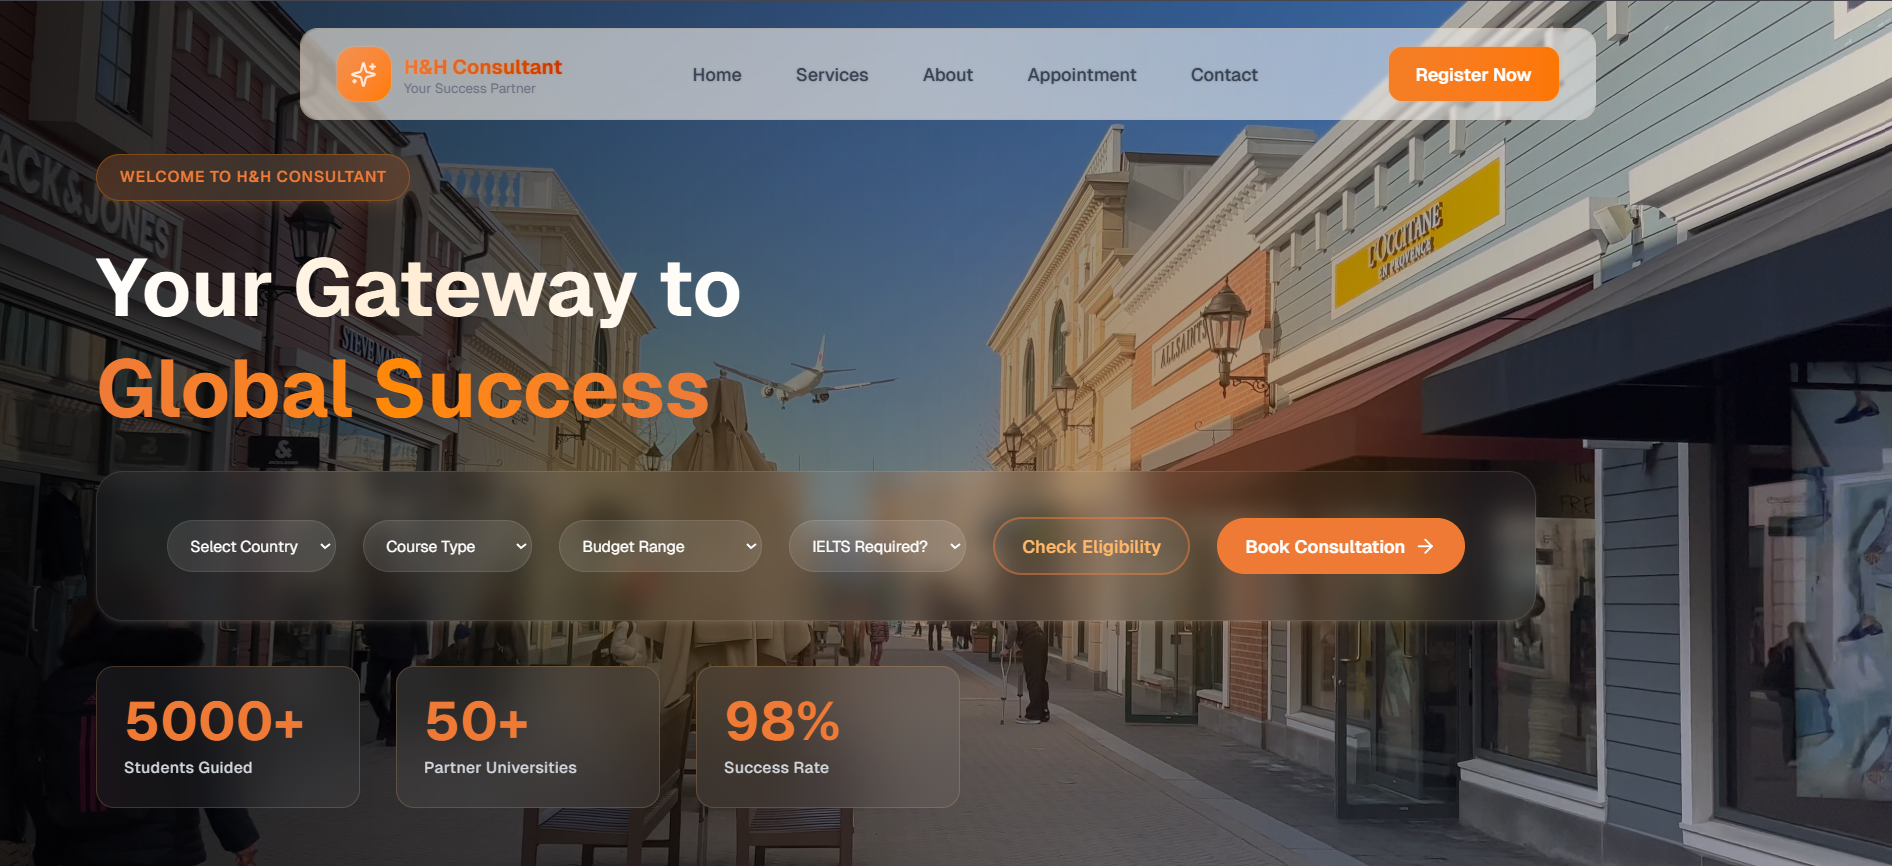
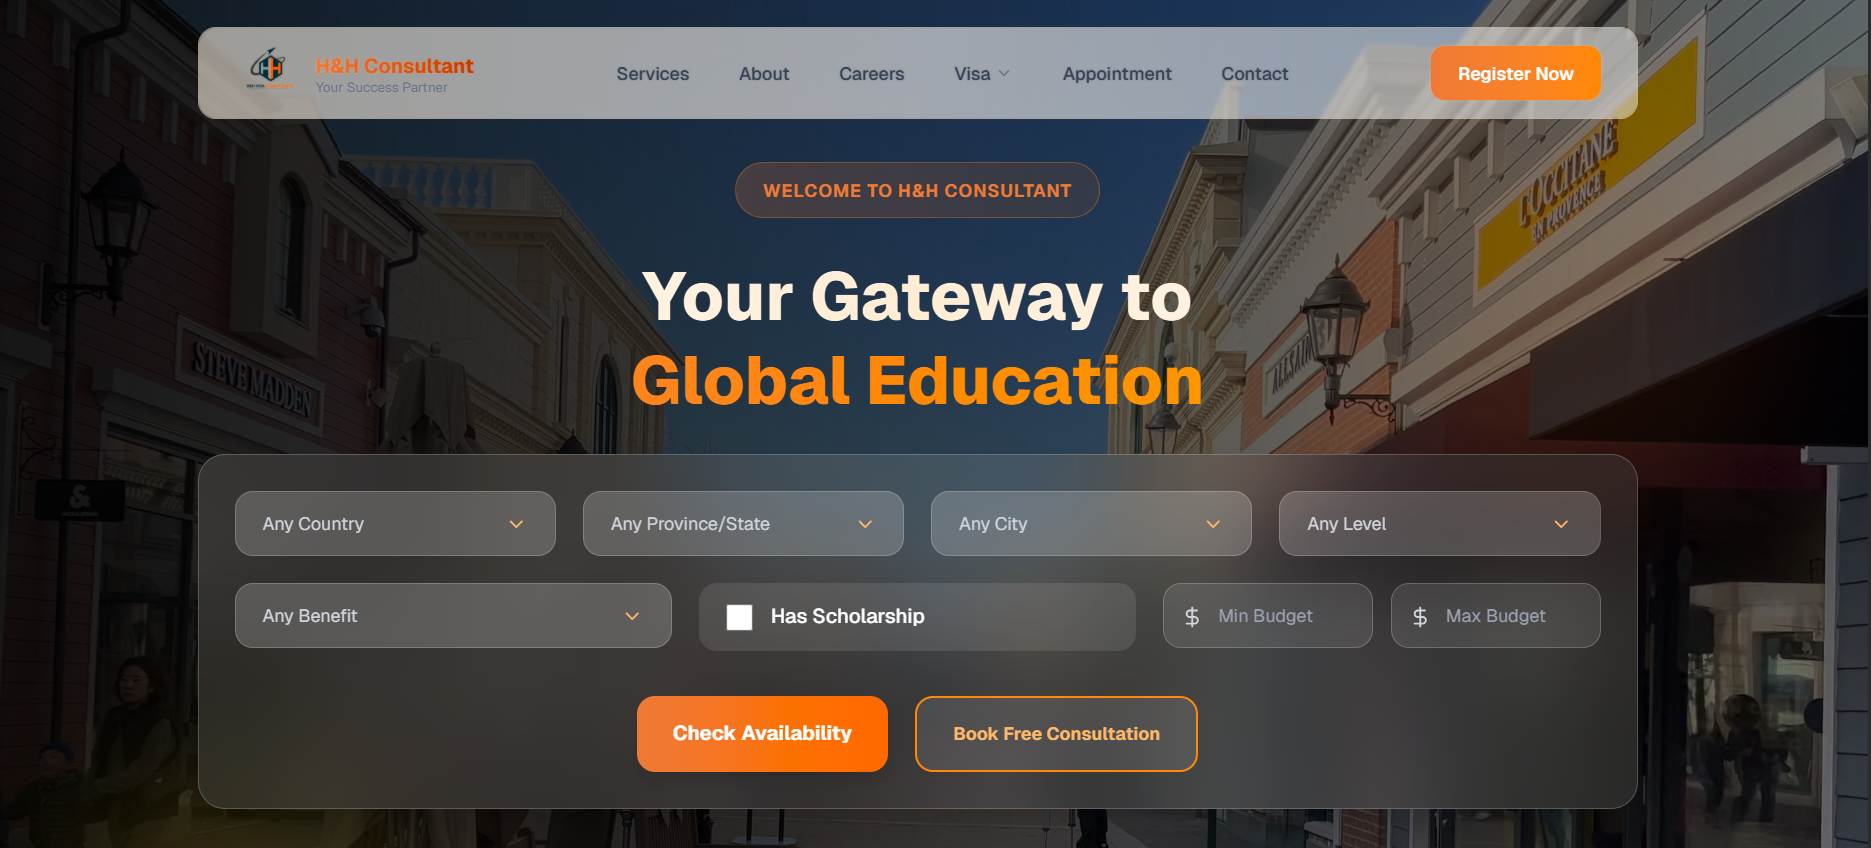
thumbnail

diff --git a/src/config/portfolio.config.ts b/src/config/portfolio.config.ts
@@ -202,6 +202,21 @@ export const portfolioConfig = {
       tags: ["react-js", "redux", "tailwind-css", "API's", "framer-motion"],
     },
     {
+      title: "H&H Consultant - Global Education Gateway",
+      description:
+        "An education consulting platform with service booking, visa forms, and lead tracking. Uses backend APIs for appointment scheduling, email nurturing, and CRM integration for global outreach.",
+      link: "https://elite-consultant.vercel.app/",
+      img: "/projectimg/hnhconsultant.png",
+      tags: [
+        "next-js",
+        "tailwind-css",
+        "API's",
+        "framer-motion",
+        "aceternity-ui",
+        "shadcn-ui",
+      ],
+    },
+    {
       title: "Virtual Tutor - AI Learning Platform",
       description:
         "An AI-powered education tool generating video lectures, slides, and notes from any topic. Integrates REST APIs for content creation, real-time discussion, and progress tracking with interactive UX.",
@@ -236,21 +251,7 @@ export const portfolioConfig = {
         "lottieflies",
       ],
     },
-    {
-      title: "H&H Consultant - Global Education Gateway",
-      description:
-        "An education consulting platform with service booking, visa forms, and lead tracking. Uses backend APIs for appointment scheduling, email nurturing, and CRM integration for global outreach.",
-      link: "https://elite-consultant.vercel.app/",
-      img: "/projectimg/hnhconsultant.png",
-      tags: [
-        "next-js",
-        "tailwind-css",
-        "API's",
-        "framer-motion",
-        "aceternity-ui",
-        "shadcn-ui",
-      ],
-    },
+    
     {
       title: "E-Commerce Platform",
       description:

diff --git a/src/components/ProjectsCard.tsx b/src/components/ProjectsCard.tsx
@@ -33,7 +33,7 @@ const ProjectCards: React.FC<ProjectCardProps> = ({ value, num }) => {
       duration={0.15}
     >
       <Card className="w-full h-full flex flex-col hover:shadow-lg transition-all duration-300 border-2">
-        <Image src={value.img} alt="thumbnail" width={430} height={200} />
+        <Image src={value.img} alt="thumbnail" width={430} height={300} />
         <CardHeader className="pb-2">
           <CardTitle className="text-xl font-bold text-primary">
             {value.title}

diff --git a/src/app/about/page.tsx b/src/app/about/page.tsx
@@ -21,7 +21,7 @@ const page = () => {
       </Badge>
       <div className="flex flex-col gap-5">
         <Heading>
-          Frontend Web Developer. <br />
+          Web Developer <br />
           {/* Based In {''} */}
           {/* {portfolioConfig.about.personalInfo.nationality}. */}
         </Heading>
